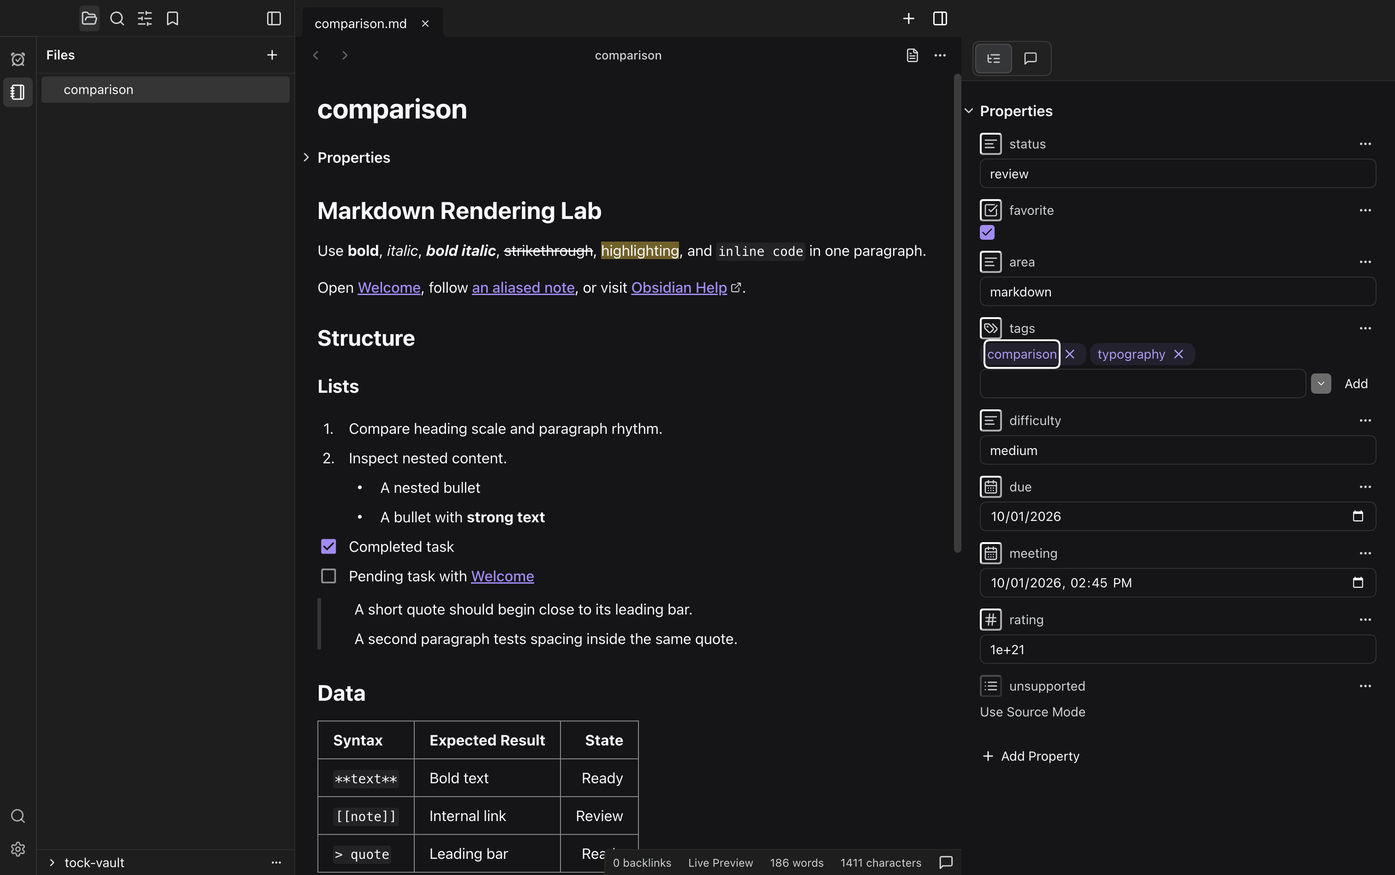
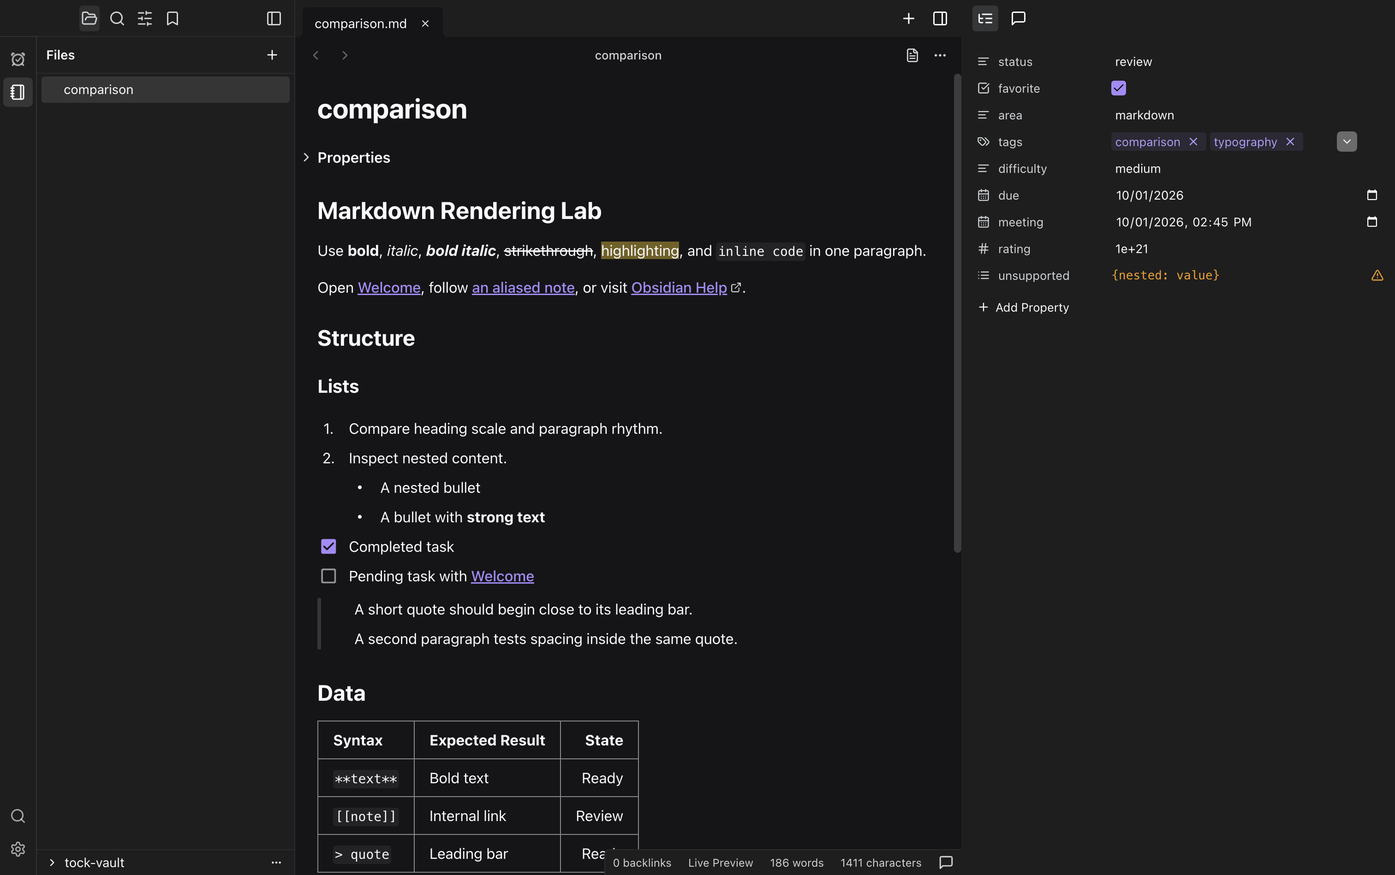
docs(tocktutor): prove compact properties and refresh canonical gallery

diff --git a/.agents/uiux/tocktutor/tocktutor.html b/.agents/uiux/tocktutor/tocktutor.html
@@ -156,7 +156,7 @@
       <h1>TockTutor and Obsidian</h1>
       <p class="intro">TockTutor screenshots were refreshed from the source-built Desktop at <code>3c579a86</code> on September 24, 2026; 23 note-facing images were recaptured after the Live Preview correction at <code>81f533aa</code>; 21 Live Preview images were retaken with purple links and task checks, readable list numbers, and 16px checkbox glyphs at <code>02e96f0e</code>. The Main Workspace and Source Mode images were retaken from a source-built Desktop working tree with Back and Forward in the note header below the tabs. The new lower-note pair shows Data, Code and Notes, and Small Heading in both apps. Assistant and ordinary Web Viewer captures remain from the prior batch; the supplemental Reader View image was refreshed on October 1 with its article loaded and the corrected Live Preview paragraph visible. Earlier Obsidian 1.13.7 reference images are unchanged except for the focused Image Viewer, Image Resizing, and Imported Property Controls retakes recorded in the proof. Note-based surfaces use the shared <a href="comparison.md"><code>comparison.md</code></a> content. Older screenshots predate the filename change. The October 1 TockTutor note menu shows the current filename without Open in Default App; attachments use <code>Notes/Welcome.md</code>, and Base and Canvas use the same <a href="../../../plugins/tocktutor/parity/fixtures/vault/">parity fixture files</a>. Search uses <code>Markdown</code> in both apps. The assistant pair uses empty conversations beside the same note, with Claudian 2.3.0 in Obsidian. Product-specific controls and catalogs remain genuine, not fabricated matches. See the <a href="content-alignment.md">capture proof and limitations</a>. Click an image for full resolution.</p>
       <p class="intro">September 29 additions: six source-built Desktop captures cover the image viewer, image resizing, Mermaid Reading and Live Preview, diagram editing, and imported property controls. These use separate <a href="migration-fixtures/Viewer.md">image-viewer</a>, <a href="migration-fixtures/Images.md">image-resizing</a>, <a href="migration-fixtures/Diagrams.md">diagram</a>, and <a href="migration-fixtures/Properties.md">property</a> fixtures; Image Viewer and Image Resizing pair the same Potala Palace photo; Diagram Editing and Imported Property Controls pair the same saved notes in TockTutor and installed Obsidian 1.13.7. The remaining two additions are TockTutor feature evidence, not matched Obsidian comparisons. See the <a href="../../../.beads/reports/2026-09-29-tocktutor-migration-review.md">migration review</a> and <a href="../../../.beads/reports/2026-09-30-tocktutor-image-alignment-and-diagram-reference.md">layout and diagram proof</a>, and <a href="../../../.beads/reports/2026-10-01-tocktutor-imported-properties-reference.md">imported property reference proof</a>. October 1 retake: Imported Property Controls now shows Properties beside the full-height note, with a fresh Obsidian comparison; the duplicate sidebar surface was removed. See the <a href="../../../.beads/reports/2026-10-01-tocktutor-imported-properties-retake.md">pair retake proof</a>.</p>
-      <p class="intro">Properties Editing Refresh: Surface 29 now uses the shared <a href="comparison.md"><code>comparison.md</code></a> in both apps, with dates, a large number, and a nested value added to its original five properties. The Markdown body is unchanged. New screenshots use the existing TockTutor build and your already installed Obsidian 1.13.7 in temporary isolated test sessions; Obsidian was not reinstalled or updated. All 71 unrelated screenshots and their original content hashes are unchanged, so earlier note-facing pictures retain the five-property version. This page remains the canonical comparison, not a separate gallery.</p>
+      <p class="intro">Properties Editing Refresh: Surface 29 uses the shared <a href="comparison.md"><code>comparison.md</code></a> with nine properties and the unchanged Markdown body. Properties Layout Refresh: TockTutor now has compact side-by-side rows and separate Properties and Assistant buttons in the titlebar. Only its screenshot was updated from the rebuilt app; the existing installed Obsidian 1.13.7 reference and all 71 other screenshots remain unchanged. No Obsidian reinstall or update. Earlier note-facing pictures keep their original five-property version; this remains the canonical gallery.</p>
       <div class="capture-standard">1512 × 949 CSS pixels · 2× scale · 3024 × 1898 output · Built-in Dark Theme · No Active Skin</div>
       <div class="legend" aria-label="Comparison legend">
         <span class="tt">TockTutor</span>
@@ -422,10 +422,10 @@
     </section>
 
     <section class="surface" id="imported-properties">
-      <p class="section-number">Surface 29</p><h2>Imported Property Controls</h2><p class="section-note">Both apps show the same <a href="comparison.md"><code>comparison.md</code></a>, including Markdown Rendering Lab and its original body. Its five existing properties are joined by a date, a date and time, an exponent-form number, and a nested object. All nine rows are visible with the in-note Properties group collapsed and each sidebar at 470 CSS pixels. TockTutor keeps its compact Properties and Assistant toggle, editable tags, row actions, and six type choices. The nested value remains Use Source Mode in TockTutor and an object with the native Type mismatch, expected Text warning in Obsidian; controls and presentation are not identical.</p>
-      <p class="fixture-proof"><strong>Properties Editing Refresh:</strong> The new pair reopens identical 1,413-byte <code>comparison.md</code> copies and the same 170-byte property-type registry in isolated test vaults. Neither file changed during capture. Built-in dark/no skin, 1512 × 949 CSS pixels at 2×, 3024 × 1898 PNGs, and zero capture-time errors are verified. Only this pair was replaced; older screenshots keep their original content revision. See the <a href="content-alignment.md">updated capture proof</a>. No Obsidian reinstall, update, user-vault change, save/restoration test, or exhaustive native-parity claim.</p>
+      <p class="section-number">Surface 29</p><h2>Imported Property Controls</h2><p class="section-note">Both apps show the same <a href="comparison.md"><code>comparison.md</code></a>, including Markdown Rendering Lab and its original body. Its five existing properties are joined by a date, a date and time, an exponent-form number, and a nested object. All nine rows are visible with the in-note Properties group collapsed and each sidebar at 470 CSS pixels. TockTutor has separate Properties and Assistant titlebar buttons, editable tags, row actions, and six type choices. The nested value remains Use Source Mode in TockTutor and an object with the native Type mismatch, expected Text warning in Obsidian; controls and presentation are not identical.</p>
+      <p class="fixture-proof"><strong>Properties Layout Refresh:</strong> TockTutor's compact rows align with the installed Obsidian reference within one CSS pixel; separate Properties and Assistant buttons sit in the titlebar. Both show identical 1,413-byte <code>comparison.md</code> copies and the same 170-byte property-type registry. Built-in dark/no skin, 1512 × 949 CSS pixels at 2×, 3024 × 1898 PNGs, and zero capture-time errors are verified. Only TockTutor's screenshot was replaced; the installed reference and all 71 other captures are unchanged. See the <a href="content-alignment.md">updated capture proof</a>. No Obsidian reinstall, update, user-vault change, save/restoration test, or exhaustive native-parity claim.</p>
       <div class="comparison">
-        <figure class="tocktutor"><figcaption><span class="caption-title">TockTutor · Imported Properties</span><span class="badge">Current</span></figcaption><a class="screenshot-link" href="screenshots/tocktutor-imported-properties.png"><img loading="lazy" src="screenshots/tocktutor-imported-properties.png" alt="TockTutor showing comparison.md and Markdown Rendering Lab beside nine Properties rows: original status, favorite, area, tags and difficulty plus date, date-time, exponent-form number and Source Mode fallback"></a></figure>
+        <figure class="tocktutor"><figcaption><span class="caption-title">TockTutor · Imported Properties</span><span class="badge">Current</span></figcaption><a class="screenshot-link" href="screenshots/tocktutor-imported-properties.png"><img loading="lazy" src="screenshots/tocktutor-imported-properties.png" alt="TockTutor showing comparison.md and Markdown Rendering Lab beside nine compact side-by-side Properties rows, with separate titlebar Properties and Assistant buttons, dates, exponent-form number and Source Mode fallback"></a></figure>
         <figure class="obsidian"><figcaption><span class="caption-title">Obsidian · Imported Properties</span><span class="badge">Reference</span></figcaption><a class="screenshot-link" href="screenshots/obsidian-imported-properties.png"><img loading="lazy" src="screenshots/obsidian-imported-properties.png" alt="Already installed Obsidian showing the identical comparison.md and Markdown Rendering Lab with all nine File properties rows, dates, checked favorite, tags, exponent-form number and nested-value warning"></a></figure>
       </div>
     </section>

diff --git a/tests/tocktutor-gallery.test.ts b/tests/tocktutor-gallery.test.ts
@@ -205,8 +205,8 @@ test('pairs Imported Property Controls with genuine Obsidian and the identical s
   assert.equal(refresh.samePropertyTypes, true)
   assert.equal(refresh.reusesExistingBuild, true)
   const current = proof.captures['tocktutor-imported-properties.png']
-  assert.equal(current.sourceCommit, proof.comparisonPropertiesRefresh.sourceCommit)
-  assert.equal(current.sha256, proof.comparisonPropertiesRefresh.screenshotSha256s['tocktutor-imported-properties.png'])
+  assert.equal(current.sourceCommit, proof.propertiesLayoutRefresh.sourceCommit)
+  assert.equal(current.sha256, proof.propertiesLayoutRefresh.screenshotSha256)
   assert.equal(current.visibleState.rightSidebar, true)
   assert.equal(current.visibleState.fullHeightNote, true)
   assert.equal(current.visibleState.rootColorScheme, 'dark')
@@ -219,12 +219,14 @@ test('pairs Imported Property Controls with genuine Obsidian and the identical s
   assert.deepEqual(current.visibleState.propertyTypes, native.visibleState.propertyTypes)
   assert.equal(current.registrySha256, native.registrySha256)
   assert.equal(current.registryUnchanged, true)
-  assert.equal(current.visibleState.segmentedToggle, true)
+  assert.equal(current.visibleState.segmentedToggle, false)
+  assert.equal(current.visibleState.titlebarButtons, true)
+  assert.equal(current.visibleState.compactRows, true)
   assert.deepEqual(current.visibleState.selector, [
     { label: 'Properties', selected: 'true' },
     { label: 'Assistant', selected: 'false' },
   ])
-  assert.equal(current.visibleState.toggle.width, 86)
+  assert.deepEqual(current.visibleState.toggle, { x: 1054, y: 6, width: 64, height: 28 })
   assert.ok(refresh.cleanup.every((run: { stopped: boolean; remaining: number[] }) => run.stopped && run.remaining.length === 0))
   assert.equal(refresh.galleryVerification.bothImagesDecoded, true)
   assert.equal(refresh.galleryVerification.surface30Absent, true)
@@ -271,7 +273,9 @@ test('publishes the current Properties comparison in the canonical gallery from 
   assert.equal(refresh.registryUnchanged, true)
   const current = proof.captures['tocktutor-imported-properties.png']
   const native = proof.captures['obsidian-imported-properties.png']
-  assert.equal(current.sourceCommit, refresh.sourceCommit)
+  assert.equal(current.sourceCommit, proof.propertiesLayoutRefresh.sourceCommit)
+  assert.equal(refresh.status, 'verified-historical')
+  assert.equal(native.sha256, refresh.screenshotSha256s['obsidian-imported-properties.png'])
   assert.equal(native.entry, '/Applications/Obsidian.app/Contents/Resources/app.asar')
   assert.equal(current.contentSha256, native.contentSha256)
   assert.equal(current.registrySha256, native.registrySha256)
@@ -290,6 +294,53 @@ test('publishes the current Properties comparison in the canonical gallery from 
   assert.equal(existsSync(resolve('.beads/reports/2026-10-01-tocktutor-properties-proof/index.html')), false)
 })
 
+test('aligns compact Properties rows and titlebar buttons without replacing the installed reference', () => {
+  const refresh = proof.propertiesLayoutRefresh
+  const current = proof.captures['tocktutor-imported-properties.png']
+  const native = proof.captures['obsidian-imported-properties.png']
+  assert.equal(refresh.status, 'verified-current')
+  assert.deepEqual(refresh.publicationAllowlist, ['tocktutor-imported-properties.png'])
+  assert.equal(refresh.unrelatedExistingCapturesUnchanged, 72)
+  assert.equal(refresh.installedReferenceUnchanged, true)
+  assert.equal(refresh.noteBytes, 1413)
+  assert.equal(refresh.sameSavedBytes, true)
+  assert.equal(refresh.registryUnchanged, true)
+  assert.deepEqual(refresh.geometry, [1512, 949, 2])
+  assert.deepEqual(refresh.pixels, [3024, 1898])
+  assert.equal(refresh.theme, 'dark')
+  assert.equal(refresh.skin, null)
+  assert.equal(refresh.keyboardSwitch, true)
+  assert.equal(refresh.propertyDraftRetained, true)
+  assert.equal(refresh.closedFocusExcluded, true)
+  assert.deepEqual(refresh.narrow, { width: 240, scrollWidth: 240, clientWidth: 240, overflow: [] })
+  assert.deepEqual(refresh.baselineRestored, { scheme: 'dark', skin: null })
+  assert.deepEqual(refresh.runtimeErrors, [])
+  assert.equal(current.visibleState.propertyRows.length, 9)
+  for (const [index, row] of current.visibleState.propertyRows.entries()) {
+    const reference = native.visibleState.propertyRows[index]
+    assert.equal(row.key, reference.key)
+    assert.ok(Math.abs(row.y - reference.y) <= 1, row.key)
+    assert.equal(row.labelBounds.height, 29, row.key)
+    assert.equal(row.labelBounds.y, row.controlBounds.y, row.key)
+    assert.ok(row.controlBounds.x >= row.labelBounds.x + row.labelBounds.width, row.key)
+  }
+  assert.ok(current.visibleState.fieldBorders.every((field: { borderWidth: string; background: string }) => field.borderWidth === '0px' && field.background === 'rgba(0, 0, 0, 0)'))
+  assert.deepEqual(refresh.appearanceChecks.map((check: { skin: string | null; mode: string }) => [check.skin, check.mode.toLowerCase()]), [
+    [null, 'dark'], [null, 'light'], ...TOCKTEAM_SKINS.flatMap(skin => [[skin.id, 'dark'], [skin.id, 'light']]),
+  ])
+  for (const check of refresh.appearanceChecks) {
+    assert.notEqual(check.mode.toLowerCase(), check.system)
+    assert.ok(check.nameContrast >= 4.5)
+    assert.ok(check.valueContrast >= 4.5)
+    assert.ok(check.sourceHintContrast >= 4.5)
+    assert.ok(check.selectedIconContrast >= 3)
+    assert.deepEqual(check.geometry, [1512, 949, 2])
+    assert.equal(check.overflow, false)
+  }
+  assert.ok(refresh.cleanup.every((run: { stopped: boolean; remaining: number[] }) => run.stopped && run.remaining.length === 0))
+  assert.match(html, /Properties Layout Refresh/u)
+})
+
 test('keeps unmatched migration surfaces distinct from the four focused comparisons', () => {
   const additions = proof.migrationReview
   assert.equal(additions.allowlist.length, 6)
@@ -306,7 +357,7 @@ test('keeps unmatched migration surfaces distinct from the four focused comparis
     assert.equal(proof.captures[name].captureScope, 'real-desktop')
     const expectedCommit = name === 'tocktutor-image-viewer.png' ? additions.imageViewerRefresh.sourceCommit
       : name === 'tocktutor-image-resizing.png' ? additions.imageLayoutRefresh.sourceCommit
-        : name === 'tocktutor-imported-properties.png' ? proof.comparisonPropertiesRefresh.sourceCommit : additions.sourceCommit
+        : name === 'tocktutor-imported-properties.png' ? proof.propertiesLayoutRefresh.sourceCommit : additions.sourceCommit
     assert.equal(proof.captures[name].sourceCommit, expectedCommit)
   }
   const fixtures = resolve(root, additions.fixtures)

diff --git a/.beads/reports/2026-10-02-tocktutor-properties-alignment.md b/.beads/reports/2026-10-02-tocktutor-properties-alignment.md
@@ -1,0 +1,45 @@
+# TockTutor Properties Alignment — 2026-10-02
+
+## Result
+
+Compact side-by-side Properties rows replace stacked boxed fields. Properties and Assistant are separate accessible titlebar icon buttons, not a segmented sidebar header. Editing, type/row menus, list chips, structured-value safety, unfinished drafts, and exclusive keyboard selection remain intact. Source checkpoints: `631a9046`, `3867c5e8`, `379938f0`.
+
+Only three Workbench UI source files changed: `src/route.tsx`, `src/linked-note-pane.tsx`, and `src/live-preview-editor.tsx`, under `plugins/tocktutor/packages/tockteam-tocktutor-workbench/`. Reused existing ToggleGroup/Tooltip/Button/Input primitives, semantic colors and Tailwind discovery. No new dependencies, shared-control recipe, palette, Host authority, IPC, profile, or agent-loop changes.
+
+Only two explicitly user-approved old assertions in protected `tests/route-linked-panes.test.tsx` were committed. Reverse-hashes reconstruct all pre-existing user bytes. `AGENTS.md`, `tests/right-panel-layout.test.ts`, unrelated test hunks, and old untracked Playwright artifacts remain untouched. Native peer source/build/stage/index/display leases were coordinated; actual captured source/build hashes are retained in canonical metadata.
+
+## Confirmed Findings
+
+**Total: 3 confirmed scoped findings, all fixed and verified; 0 unresolved confirmed findings.**
+
+1. **Medium — Structured preview was hard to read in built-in light mode.** Impact: the nested YAML value and Source Mode warning glyph had 1.98:1 contrast. Affected path: `plugins/tocktutor/packages/tockteam-tocktutor-workbench/src/live-preview-editor.tsx`. Fixed locally with semantic `light-dark()` colors in statically discoverable markup: normal text in light, warning color in dark. Real default/skin captures now measure at least 7.76:1 for this hint; built-in light is 17.40:1. No catalog or shared color change.
+
+2. **Low — Tooltips overrode the new titlebar button's visual selected state.** Impact: the semantic radio remained correctly checked but its selected highlight disappeared because Tooltip and ToggleGroup both use `data-state`. Affected path: `plugins/tocktutor/packages/tockteam-tocktutor-workbench/src/route.tsx`. Fixed selected styling against `aria-checked`, verified in the real app across eight appearances and keyboard switches. The original rendered transparent-background check failed before the fix.
+
+3. **Low — Property-type icons retained browser-default borders.** Impact: boxed type controls conflicted with the compact native reference. Affected path: `plugins/tocktutor/packages/tockteam-tocktutor-workbench/src/live-preview-editor.tsx`. Explicit `border-0` removes the inherited unstyled button border at the shared trigger. Real final capture shows bare type icons; existing menus still open and cancel correctly.
+
+## Verification
+
+- RED first: titlebar-placement/compact-row component checks, rendered selected-highlight check, measured 1.98:1 light-preview contrast, and canonical gallery tests before new metadata/publication.
+- Focused component command: `pnpm -C plugins/tocktutor/packages/tockteam-tocktutor-workbench exec vitest run tests/properties-sidebar.test.tsx tests/route-panel-controls.test.tsx tests/route-linked-panes.test.tsx tests/properties-ui.test.tsx tests/property-type-ui.test.tsx tests/properties-suggestions.test.tsx --environment jsdom --maxWorkers=4` — 182 passed. Later selected/contrast-focused reruns passed.
+- Full workbench: 788 component tests and 429 Node tests passed; other nested Node checks 99 + 216 + 15 passed. One existing five-second CodeMirror capped-search timeout passed unchanged in isolation and the bounded full rerun.
+- `pnpm run typecheck:tocktutor`, `pnpm run build:tocktutor`, `pnpm run typecheck`, `pnpm run build`, `node scripts/stage-dsh.mjs --quick`, and `node scripts/tocktutor-build-manifest.mjs --check` passed.
+- Final `pnpm test`: **1,670 passed, 0 failed, 18 optional skips**. An unrelated 20ms Simple File Search deadline test failed once under parallel root load; its unchanged focused test and exact full retries passed. No unrelated source/time-budget fix or waived assertion.
+- `node --test tests/tocktutor-gallery.test.ts tests/tocktutor-content-alignment.test.ts` — **19 passed**. Verifies current image hash/geometry, native reference preservation, 29-pixel inline rows, titlebar buttons, nine matched row positions, eight appearance/contrast cases, draft/focus/narrow proof and cleanup.
+- React Doctor scoped lint scan: no issues. Maintainability analysis timed out and numerical scoring was disabled; a complete score gate is not claimed.
+
+Guarded generic Electron on display 17, app-scoped Playwright over returned owned CDP only. Exact 1512 × 949 CSS pixels at DPR 2 produces unmodified 3024 × 1898 PNGs. Live Preview uses built-in dark, no root/body skin, collapsed inline Properties and a 470-pixel sidebar. All nine row positions match the installed Obsidian reference within 0.5 CSS pixels. At 240 pixels, client/scroll width is 240 with no overflow. Keyboard selection, unfinished list draft across view switches, and closed-panel focus exclusion passed.
+
+Default Dark/Light and Navy/Jade/Ember in both modes were checked with opposite simulated system appearance. Minimum name/value/Source Mode hint/selected-icon contrast: **5.34 / 12.54 / 7.76 / 9.50 : 1**. Canonical dark/no-skin was restored. Capture/appearance errors and external requests: zero; one pre-existing Vue bundler warning is recorded.
+
+## Canonical Screenshot and Provenance
+
[1 lines of base64/hex data omitted]
+
[1 lines of base64/hex data omitted]
+
+Final rendered gallery decodes both images, retains 29 surfaces/66 unique images, and has no runtime, request or HTTP errors. Temporary app roots 40888, 46267, 50977 and 58717 stopped with all recorded trees; remaining descendants are empty. Gallery roots 60319 and 63663 likewise stopped; server roots 60300 and 63655 are absent, ports closed, Playwright detached. No temporary verification tree is left running.
+
+## Limits
+
+Row spacing is aligned, not exact pixel identity: native date/list controls, structured-value rendering and note typography still differ. This pass does not repeat exhaustive installed-Obsidian functional, save/recovery or account/native-effect certification. Harness fixes for a hidden-role locator, asynchronous arrow focus, full skin IDs and RGB-versus-sRGB parsing are verification corrections, not product findings. No push. Restart Electron to load the UX changes; reloading the gallery alone is sufficient for its screenshot update.

diff --git a/.agents/uiux/tocktutor/content-alignment.md b/.agents/uiux/tocktutor/content-alignment.md
@@ -1,6 +1,18 @@
 # TockTutor and Obsidian Content Alignment
 
-## Current Shared-Note Properties Comparison — 2026-10-02
+## Current Properties Layout — 2026-10-02
+
+TockTutor now uses compact 29-pixel name/value rows and separate Properties/Assistant icon buttons in the titlebar. At the matched 470-pixel sidebar width, all nine rows start within 0.5 CSS pixels of installed Obsidian. Text/date/number inputs are borderless; list values remain editable chips with icon-only actions; structured YAML stays read-only with its Source Mode hint. The earlier shared-note pair below remains historical; its installed Obsidian reference is unchanged.
+
+Source checkpoints `631a9046`, `3867c5e8`, and `379938f0` own only three UI source files, their focused tests/generated output, and two user-approved old layout assertions. All preceding user hunks in the protected test, `AGENTS.md`, and the root layout test remain byte-identical by reverse-hash checks. No palette, shared control recipe, plugin authority, or agent-loop changes.
+
+The rebuilt isolated Desktop passed keyboard selection, unsent property-draft retention, closed-panel focus exclusion, and a 240-pixel sidebar with no horizontal overflow. Default Dark/Light and Navy/Jade/Ember in both modes all passed with opposite simulated system appearance. Minimum measured contrasts: names 5.34:1, values 12.54:1, Source Mode hints 7.76:1, and selected icons 9.50:1. The local structured preview retains warning color in dark mode and semantic text color in light mode after an actual 1.98:1 built-in-light failure. A Tooltip state-attribute collision was fixed by styling the titlebar's semantic checked state.
+
+The current PNG uses built-in dark/no skin, 1512 × 949 CSS at DPR 2, unchanged 3024 × 1898 pixels, Live Preview and collapsed in-note Properties. The same 1,413-byte shared note and 170-byte registry remain unchanged. Only `tocktutor-imported-properties.png` is published; the installed reference and all 71 unrelated images retain their hashes. Capture/appearance errors and external requests are zero; one existing Vue bundler warning is recorded. Guarded roots 40888, 46267, 50977, and 58717 stopped with their complete recorded trees and no descendants; Playwright detached.
+
+Focused UI checks passed 182/182; the earlier complete workbench suite passed 788 component tests and 429 Node tests. Final root `pnpm test` passed 1,670 with 18 optional skips, typecheck/build/quick stage and manifest checks passed. One unrelated 20ms file-search deadline check failed under parallel load; its unchanged focused test and exact full retry passed. React Doctor's scoped lint scan was clean, but its maintainability analysis timed out; no score gate is claimed. Native date/list controls and structured-value rendering are not pixel-identical. This is rendered layout/draft/appearance proof, not a repeat of exhaustive save/recovery or native functional certification. The final rendered canonical gallery decoded both 3024 × 1898 images at the exact viewport, retained 29 surfaces/66 unique images, and recorded zero errors, failed requests, or HTTP errors. Final gallery root 63663 and all four recorded PIDs stopped; server 63655 is absent and its port closed. The earlier gallery root 60319 and server 60300 likewise stopped; no Playwright session remains. Final gallery/alignment checks pass 19/19 and the manifest passes. Current metadata is `propertiesLayoutRefresh`; the earlier screenshot claims below are historical.
+
+## Historical Shared-Note Properties Comparison — 2026-10-02
 
[1 lines of base64/hex data omitted]
 
